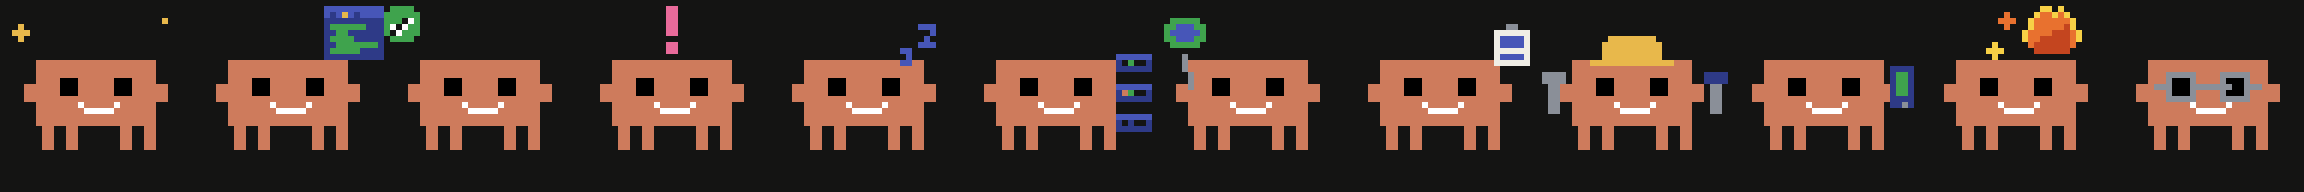
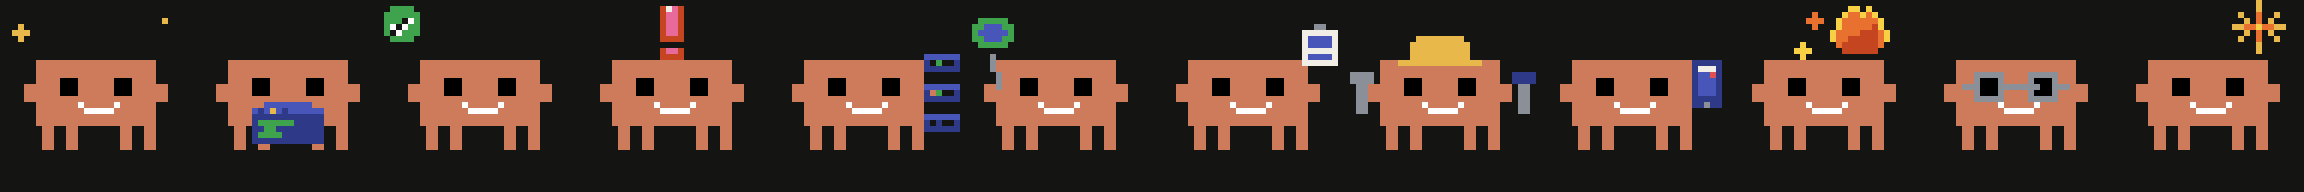
The z's come off, and the breath earns its keep
The operator asked for the drifting z's gone. Deleting them is one
line; the interesting part is what was hiding underneath.

sleeping.gif was 48 frames and 41 of them were pixel-identical. The
breath is a one-pixel square wave with a 6.98s period, so it spends 85%
of its cycle on a single value, and the z's were carrying the entire
animation. Take them away and the README's "Asleep" panel becomes a
still image with one twitch in it. Worse, the 4.0s clip is 57% of a
6.98s cycle, so it never looped - it jumped.

So the breath had to do the job instead. Two pixels rather than one,
eased with Ease.square rather than a hard sin threshold, which gives
three depths and makes him HOLD the top and the bottom and step through
the middle: measured, 39% top, 23% middle, 39% bottom, with a maximum
change of one pixel per frame at both the live 6fps and the GIF's
12fps. Single-pixel steps are the one no-snap exemption.

The period is named now, and the clip is derived from it, so the clip
is exactly one breath and closes on itself. Five seconds rather than
seven - seven is slower than anything that actually breathes and reads
as stopped.

The phase is shifted a quarter turn so t=0 is the TOP of the breath.
That instant is not arbitrary: it is where the sizzle's wake chapter
opens, and t=0.4 is where still-sleeping.png is sampled. Both now catch
him at rest rather than halfway down.

And a held one-pixel tilt, which is the part that fixes the still.
[…]

diff --git a/Tests/ClaudePetTests/MotionTests.swift b/Tests/ClaudePetTests/MotionTests.swift
@@ -175,6 +175,58 @@ struct MotionContinuityTests {
                 "selecting the waiting light showed nothing for \(longestDark)s")
     }
 
+    /// The sleeping clip has to contain a whole breath and close on itself.
+    ///
+    /// This fails on the old pose: a 4.0s clip over a 6.98s cycle is 57% of a
+    /// breath, so `sleeping.gif` jumped at the loop — and 41 of its 48 frames
+    /// were pixel-identical, because a one-pixel square wave spends 85% of its
+    /// cycle on one value.
+    @Test("The sleeping clip is exactly one breath, and it closes")
+    func theSleepingClipIsOneWholeBreath() {
+        let clip = PetMood.sleeping.style.clipSeconds
+        #expect(clip == CrabAnimator.breathPeriod,
+                "the clip must be derived from the breath, not written down beside it")
+
+        let open = CrabAnimator.pose(mood: .sleeping, t: 0, flourishes: false)
+        let close = CrabAnimator.pose(mood: .sleeping, t: clip, flourishes: false)
+        #expect(open.bob == 0, "t=0 should be the top of the breath")
+
+        // Compare the RENDERED frames, not the poses. `propPhase` carries raw
+        // `t` whether or not there is a prop, so two poses a whole period apart
+        // differ in a field that draws nothing — the thing that has to loop is
+        // the picture.
+        let first = CrabRig.render(open)
+        let last = CrabRig.render(close)
+        for y in 0..<PixelBuffer.side {
+            for x in 0..<PixelBuffer.side {
+                #expect(first[x, y] == last[x, y],
+                        "the loop does not close: (\(x),\(y)) differs")
+            }
+        }
+
+        // Three depths, and it steps rather than jumping between them.
+        var depths = Set<Int>()
+        var previous = open.bob
+        for step in 0...Int(clip * 12) {          // the GIF's own rate
+            let bob = CrabAnimator.pose(mood: .sleeping, t: Double(step) / 12,
+                                        flourishes: false).bob
+            depths.insert(bob)
+            #expect(abs(bob - previous) <= 1, "the breath jumped \(bob - previous)")
+            previous = bob
+        }
+        #expect(depths.count >= 3, "a two-value breath reads as a twitch, not a breath")
+    }
+
+    /// The z's are gone; the tilt is what carries "asleep" in the still, where
+    /// the breath cannot help.
+    @Test("A sleeping crab wears no prop, and tips his head")
+    func theSleepingPoseCarriesNoProp() {
+        let pose = CrabAnimator.pose(mood: .sleeping, t: 2, flourishes: false)
+        #expect(pose.prop == .none)
+        #expect(pose.blink == 1, "his eyes stay shut")
+        #expect(pose.tilt != 0, "the tilt is the only thing left in the still")
+    }
+
     /// The frozen sentinel, checked on the BODY rather than on the props.
     /// `nothingFiresAtTimeZero` looks at prop visibility, heat and glyphs, so
     /// it never saw that idle's cycle-0 flourish was always a jump and always

diff --git a/Sources/ClaudePet/View/CrabView.swift b/Sources/ClaudePet/View/CrabView.swift
@@ -96,6 +96,16 @@ public enum CrabAnimator {
         }
     }
 
+    /// One slow breath, and the length of `sleeping`'s README clip.
+    ///
+    /// Named rather than written down twice, so the clip is exactly one breath
+    /// and closes seamlessly. It used to be a 4.0s clip over a 6.98s cycle —
+    /// 57% of a breath, so the GIF did not loop, it jumped.
+    ///
+    /// Five seconds rather than seven: seven is slower than anything that
+    /// breathes and reads as stopped.
+    static let breathPeriod = 5.0
+
     /// One flourish per window, on dice, with a quiet stretch after it.
     private static let flourishPeriod = 7.0
 
@@ -680,10 +690,26 @@ public enum CrabAnimator {
             pose.prop = .bang
 
         case .sleeping:
-            pose.bob = sin(t * 0.9) > 0 ? 0 : 1   // slow breathing
+            // A two-pixel breath, eased, so he HOLDS the top and the bottom
+            // and steps through the middle — three depths on a grid with one
+            // axis to spend. The old one-pixel square wave spent 85% of its
+            // cycle on a single value, which is why `sleeping.gif` was 41
+            // pixel-identical frames out of 48.
+            //
+            // Phase-shifted by a quarter turn so t=0 is the TOP of the breath
+            // rather than halfway down it. That instant is not arbitrary: it
+            // is where the sizzle's wake chapter opens, and t=0.4 is where
+            // `still-sleeping.png` is sampled.
+            pose.bob = Int((Ease.square(t * 2 * .pi / breathPeriod - .pi / 2,
+                                        soft: 1.0) * 2).rounded())
             pose.blink = 1                        // eyes shut
+            // One pixel of tilt, held. `drawFace` raises one eye and drops the
+            // other, so his two shut lids sit at different heights — the
+            // oldest "asleep, not switched off" signal there is, and it costs
+            // no motion at all. It is also the only thing carrying the read in
+            // the STILL, where the breath cannot help.
+            pose.tilt = 1
             pose.mouth = .flat
-            pose.prop = .zzz
         }
 
         return pose

diff --git a/Tests/ClaudePetTests/PersonalityTests.swift b/Tests/ClaudePetTests/PersonalityTests.swift
@@ -77,6 +77,29 @@ struct VocabShoutoutsTests {
     }
 }
 
+@Suite("Prop inventory")
+struct PropInventoryTests {
+    /// `props.png` is committed and published in the README as "every prop", and
+    /// it is rendered from `Prop.allCases`. It had been missing the Claude star
+    /// for weeks — appended to the enum, never re-rendered, nobody noticed.
+    ///
+    /// Pinning the count makes the next append or deletion surface the media
+    /// obligation at test time rather than at review time.
+    @Test("The prop strip publishes every prop")
+    func propCountIsPinned() {
+        // `.none` is a case but not a prop; the strip draws the rest.
+        let drawn = CrabPose.Prop.allCases.filter { $0 != .none }
+        #expect(drawn.count == 12,
+                "the prop count moved — docs/media/props.png needs re-rendering")
+        #expect(!CrabPose.Prop.allCases.contains { $0.rawValue == "zzz" },
+                "the sleeping z's were removed; the enum should not carry them")
+        // `stableSeed` is the allCases index and feeds the pixel dissolve, so
+        // the ordering has to stay collision-free.
+        let seeds = CrabPose.Prop.allCases.map(\.stableSeed)
+        #expect(Set(seeds).count == seeds.count, "two props share a dissolve seed")
+    }
+}
+
 @Suite("The draw counter")
 struct LineCursorTests {
 

diff --git a/Sources/ClaudePet/View/CrabRig.swift b/Sources/ClaudePet/View/CrabRig.swift
@@ -57,7 +57,7 @@ public struct CrabPose: Sendable, Equatable {
     public enum Prop: String, Sendable, CaseIterable {
         case none
         // World props: drawn at a fixed spot in the frame.
-        case sparkles, terminal, check, bang, zzz, servers, balloon, plan
+        case sparkles, terminal, check, bang, servers, balloon, plan
         // Worn props: drawn on the body, and must travel with `bob` and `lean`.
         case hardHat, phone, fire, glasses
         // Appended (stableSeed is the allCases index — order is load-bearing):
@@ -879,14 +879,6 @@ public enum CrabRig {
             b.pixel(15, 1 + hop, .paper)
             b.rect(14, 8 + hop, 4, 2, .ember)
             b.rect(15, 8 + hop, 2, 1, .pink)
-
-        case .zzz:
-            let key: [Character: PixelBuffer.Ink] = ["z": .screenLight]
-            let drift = Int((sin(phase) * 1.5).rounded())
-            b.stamp(["zzz", "..z", ".z.", "zzz"], at: (x: 25, y: 3 + drift), key: key)
-            if sin(phase * 0.7) > 0 {
-                b.stamp(["zz", ".z", "zz"], at: (x: 22, y: 9 - drift), key: key)
-            }
 
         case .servers:
             // The blue rack he leans on in the sticker set. Status lights blink

diff --git a/Sources/ClaudePet/App/ReelRenderer.swift b/Sources/ClaudePet/App/ReelRenderer.swift
@@ -389,8 +389,8 @@ enum ReelRenderer {
 
     /// Every prop in one strip, so the README's list of them is concrete.
     ///
-    /// On slate rather than the ocean: five of the thirteen props are drawn in
-    /// `screenDark`/`screenLight` navy — the terminal, the servers, the z's, the
+    /// On slate rather than the ocean: four of the twelve props are drawn in
+    /// `screenDark`/`screenLight` navy — the terminal, the servers, the
     /// balloon, the phone — and navy on navy water runs about 1.4:1. This strip
     /// illustrates the rig, not the marketing scene, so it gets the ground that
     /// shows every prop rather than the one that matches the hero.

diff --git a/Sources/ClaudePet/Support/MoodStyle.swift b/Sources/ClaudePet/Support/MoodStyle.swift
@@ -86,8 +86,8 @@ public extension PetMood {
         case .sleeping:
             MoodStyle(accent: Palette.slateSoft, bubbleFill: Palette.slateSoft,
                       bubbleText: Palette.white, glyph: "",
-                      frameInterval: 1.0 / 6,      // a breath and drifting z's
-                      clipSeconds: 4.0, previewBubble: nil)
+                      frameInterval: 1.0 / 6,      // one slow breath
+                      clipSeconds: CrabAnimator.breathPeriod, previewBubble: nil)
         }
     }
 

diff --git a/README.md b/README.md
@@ -90,7 +90,7 @@ seconds he does something unprompted: a jump, a stretch, a look around.
 <tr><td><img src="docs/media/sleeping.gif" width="150"></td><td>
 
 ### Asleep
-Nothing is running. He breathes slowly with z's drifting up, and the render rate
+Nothing is running. He shuts his eyes, tips his head, and breathes — and the render rate
 drops so an idle pet costs an idle machine nothing.
 
 </td></tr>
@@ -389,7 +389,7 @@ few numbers rather than a new asset, and the app icon is rendered from the same
 rig so the two can never drift apart.
 
 <div align="center">
-  <img src="docs/media/props.png" width="768" alt="Every prop: sparkles, terminal, check, bang, z's, servers, balloon, plan, hard hat, phone, fire, glasses">
+  <img src="docs/media/props.png" width="768" alt="Every prop: sparkles, terminal, check, bang, servers, balloon, plan, hard hat, phone, fire, glasses, star">
 </div>
 
 <p align="center"><em>Every prop, from the same rig — no sprite sheet anywhere.</em></p>
